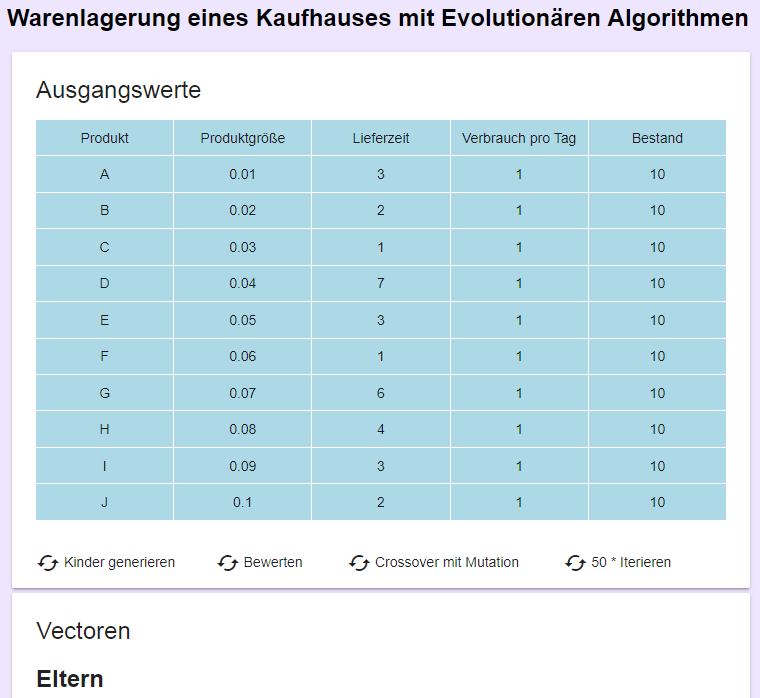
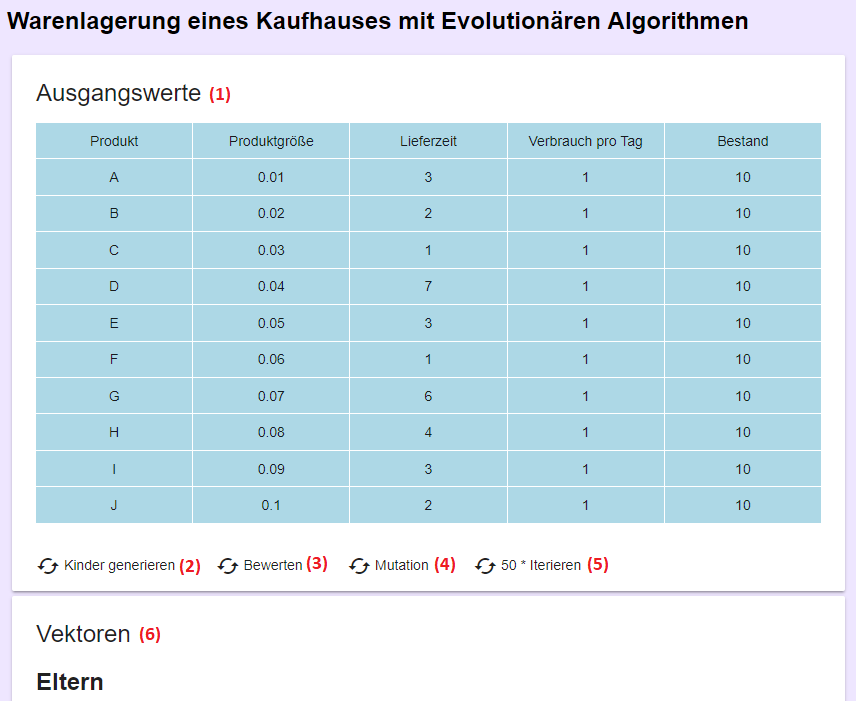
initial doku

diff --git a/src/app/ea/ea.component.ts b/src/app/ea/ea.component.ts
@@ -14,13 +14,14 @@ export class EaComponent implements OnInit {
   public parents: Vector[];
   public children: Vector[];
   public averageFitness: number;
+  public bestVector: Vector;
 
   public numParents = 10;
   public numChildren = 15;
   public maxStartSize = 20;
 
-  public standardDeviation = 0.2;
-  public simulationIterations = 10;
+  public standardDeviation = 0.1;
+  public simulationIterations = 80;
 
   constructor() {
     this.data = [
@@ -39,6 +40,7 @@ export class EaComponent implements OnInit {
     this.children = [];
     this.parents = this.generateStart(this.numParents);
     this.averageFitness = 0;
+    this.bestVector = null;
 
   }
 
@@ -53,11 +55,11 @@ export class EaComponent implements OnInit {
   // Interface
   evaluateVectors() {
     for (let parent of this.parents) {
-      parent.evaluate(20, this.data);
+      parent.evaluate(this.simulationIterations, this.data);
     }
 
     for (let child of this.children) {
-      child.evaluate(20, this.data);
+      child.evaluate(this.simulationIterations, this.data);
     }
 
     this.averageFitness = this.getAverageFitness(this.parents);
@@ -65,11 +67,12 @@ export class EaComponent implements OnInit {
 
   // Interface
   buildNextGen() {
-    this.parents = this.selectForNextGen(this.numParents, this.children, this.simulationIterations);
+    this.parents = this.selectForNextGen(this.numParents, this.children);
 
     for (let parent of this.parents) {
       parent.isNextGen = false;
     }
+    this.averageFitness = this.getAverageFitness(this.parents);
   }
 
   // Interface
@@ -131,17 +134,17 @@ export class EaComponent implements OnInit {
     vector.minimalStock.forEach((element, index) => {
       let localStandardDeviation = vector.minimalStock[index] * standardDeviation;
       mutateMinStock.push(Math.round(
-        vector.minimalStock[index] + (Math.random() * localStandardDeviation * 2 ) - localStandardDeviation));
+        vector.minimalStock[index] + ((Math.random() * 2 - 1) * localStandardDeviation)));
 
       localStandardDeviation = vector.buyAmount[index] * standardDeviation;
       mutateBuyAmount.push(Math.round(
-        vector.buyAmount[index] + (Math.random() * localStandardDeviation * 2 ) - localStandardDeviation));
+        vector.buyAmount[index] + ((Math.random() * 2 - 1) * localStandardDeviation)));
     });
 
     return new Vector(mutateMinStock, mutateBuyAmount);
   }
 
-  selectForNextGen(numberParents: number, children: Vector[], iterations: number): Vector[] {
+  selectForNextGen(numberParents: number, children: Vector[]): Vector[] {
     const nextGen = [];
     for (let i = 0; i < numberParents; i ++) {
       let bestChild = null;
@@ -152,13 +155,19 @@ export class EaComponent implements OnInit {
       }
       bestChild.isNextGen = true;
       nextGen.push(bestChild);
+
+      // Besten Vektor merken
+      if (this.bestVector === null || bestChild.fitness < this.bestVector.fitness) {
+        this.bestVector = Object.create(bestChild);
+        this.bestVector.isNextGen = false;
+      }
     }
     return nextGen;
   }
 
   getAverageFitness(vectors: Vector[]): number {
     let sum = 0;
-    for (let vector of vectors){
+    for (const vector of vectors){
       sum += vector.fitness;
     }
     return sum / vectors.length;

diff --git a/src/app/ea/util/vektoren.model.ts b/src/app/ea/util/vektoren.model.ts
@@ -33,7 +33,7 @@ export class Vector {
     }
 
     public evaluate(iterations: number, data: Product[]) {
-
+        
         let products = [];
 
         data.forEach((element) => {
@@ -71,18 +71,26 @@ export class Vector {
 
         }
 
-        console.log('Anzahl lehrer Produkte: ' + sumEmptyProducts);
-        console.log('Durschnittlicher Lagerbestand: ' + totalStock / iterations);
+        let totalMinimalStock = 0;
+        let totalBuyAmount = 0;
+        this.minimalStock.forEach((elem, index) => {
+            totalMinimalStock += elem;
+            totalBuyAmount += this.buyAmount[index];
+        })
+
+        // console.log('Anzahl lehrer Produkte: ' + sumEmptyProducts);
+        // console.log('Durschnittlicher Lagerbestand: ' + totalStock / iterations);
 
         // Durchschnittlicher Lagerbestand + 5 * sumEmptyProducts
-        this.fitness = totalStock / iterations + 2 * sumEmptyProducts;
+        this.fitness = totalStock / iterations + sumEmptyProducts + totalMinimalStock + totalBuyAmount;
+        this.orders = [];
 
     }
 
     private getTotalStock(products: Product[]): number {
         let count = 0;
         products.forEach((elem) => {
-            count += elem.stock;
+            count += elem.stock * elem.size;
         });
         return count;
     }

diff --git a/src/app/ea/ea.component.html b/src/app/ea/ea.component.html
@@ -32,7 +32,7 @@
       </button>
       <button md-button (click)="buildNextGen()">
         <md-icon>cached</md-icon>
-        Crossover mit Mutation
+        Mutation
       </button>
        <button md-button (click)="iterate(50)">
         <md-icon>cached</md-icon>
@@ -45,20 +45,21 @@
 <div>
   <md-card class="content-card">
     <md-card-title>
-      Vectoren
+      Vektoren
     </md-card-title>
     <h2>Eltern</h2>
     <md-card-content>
       <div *ngFor="let vector of parents">
         <span [class.isNextGen]="vector.isNextGen">
-          {{vector.toString()}} : {{vector.fitness}}
+          ({{vector.toString()}}) : {{vector.fitness}}
         </span>
       </div>
       <p> Durchschnitt Eltern-Fitness: {{averageFitness}}<p>
+      <p *ngIf="bestVector"> Bester Vektor: {{bestVector.toString()}} : {{bestVector.fitness}}<p>
       <h2>Kinder</h2>
       <div *ngFor="let vector of children">
         <span [class.isNextGen]="vector.isNextGen">
-          {{vector.toString()}} : {{vector.fitness}}
+          ({{vector.toString()}}) : {{vector.fitness}}
         </span>
       </div>
     </md-card-content>

diff --git a/latex/3-evolutionaere-alg/sl3-ea.tex b/latex/3-evolutionaere-alg/sl3-ea.tex
@@ -45,12 +45,12 @@ Vorsicht: Hier existiert zum aktuellen Zeitpunkt noch ein Bug des Routings, was 
 
 \begin{figure}[htbp]
 	\centering
-	\includegraphics[width=0.6\textwidth]{res/interface.png}
+	\includegraphics[width=0.7\textwidth]{res/interface.png}
 	\caption{Aktionsmöglichkeiten der Anwendung}
 	\label{img:interface}
 \end{figure}
 
-Um die Implementierung der SL-3 zu erreichen muss innerhalb der Kopfzeile ganz rechts das Menü geöffnet und die Option SL-3 ausgewählt werden. In der Anwendung (siehe Abbildung \ref{img:interface}) können nun die Ausgangsdaten über die Eingabefelder gepflegt werden. Dabei wird im linken Block (1) die Nachfrage und im rechten Block (2) der Lagerbestand pro Produkt eingetragen. Weiterhin können durch den Button "Befülle zufällig"(3) auch zufällige Werte für alle Felder erzeugt werden. "Berechnen" (4) führt bei gefüllten Ausgangswerten eine Fuzzyfizierung durch und wendet im Anschluss alle hinterlegten Regeln auf die Datenbasis an. Zuletzt wird aus den dadurch gewonnen Werten eine Empfehlung für jedes Produkt abgegeben(7). Mittels (5) können die Graphen der Fuzzy-Sets eingeblendet werden und mittels (6) werden alle Eingaben im Formular zurückgesetzt.
+Um die Implementierung der SL-3 zu erreichen muss innerhalb der Kopfzeile ganz rechts das Menü geöffnet und die Option SL-3 ausgewählt werden. In der Anwendung (siehe Abbildung \ref{img:interface}) können an erster Stelle (1) die Ausgangsdaten eingesehen werden. Diese sind für diese Implementierung statisch im Code hinterlegt und sind hier lediglich informativ. Bei den Aktionen steht zuerst die Generierung der Kinder (2) zur Verfügung. Dies geschieht nach einer (10/2,15)- Evolutionsstrategie, wodurch basierend auf den zufällig generierten Eltern 15 neue Vektoren entstehen. Dabei werden diese durch Mittelwertbildung erzeugt. Die Bewertung (3) fügt eine Bewertung zu jedem Vektor hinzu. Die Eltern erhalten ebenfalls eine Bewertung, auch wenn sie für nie nachfolgende Generation nicht weiter betrachtet werden. Bei der Mutation (4) wird eine statische Standardabweichung auf alle Bestandteile der Vektoren angewendet, um die notwendige Varianz zu erhalten. Die dadurch entstehenden Vektoren werden dann als neue Elterngeneration verwendet. Bei der 50-fachen Iteration (5) werden die vorherigen drei Schritte entsprechend häufig wiederholt. Im unteren Bereich (6) werden die Eltern und Kinder mit Bewertung dargestellt.
 
 \section{Aufbau der Applikation}
 \label{aufbau}
@@ -61,41 +61,35 @@ Die Implementierung erfolgt innerhalb nachfolgender Orderstruktur:
 \begin{lstlisting}[backgroundcolor=\color{lightgray}]
 src
 |- app
-   |- fuzzy
+   |- ea
 \end{lstlisting}
 Außenstehende Komponenten sind zur Navigation und Verwaltung notwendig.
 
-Innerhalb des Fuzzy-Ordners befinden sich folgende Dateien:
+Innerhalb des EA-Ordners befinden sich folgende Dateien:
 \begin{itemize}
-\item fuzzy.component.css (Styling der Komponente)
-\item fuzzy.component.html (Strukturierung der Komponente)
-\item fuzzy.component.ts (Logik der Komponente)
+\item ea.component.css (Styling der Komponente)
+\item ea.component.html (Strukturierung der Komponente)
+\item ea.component.ts (Logik der Komponente)
 \end{itemize}
-
-Weiterhin wurde zur Trennung von Anzeige und Logik die Visualisierung der Graphen in eine Sub-Komponente fuzzy-chart.component ausgelagert. Da diese lediglich eine Komponente zur Visualisierung ist und keine eigenen Logik besitzt, wird hierauf nicht weiter eingegangen.
 
 Im util-Ordner stehen noch weitere Klassen zur Verfügung, auf welche im Folgenden genauer eingegangen werden soll.
 \begin{itemize}
-	\item fuzzyController.ts (Umsetzung des Fuzzy Logic)
-	\item fuzzySet.ts (Umsetzung der Fuzzyfizierten Sets)
-	\item rules.ts (Hinterlegen der Regeln)
+	\item product.model.ts (Modell eines Produktes)
+	\item vektoren.model.ts (Abbilden und Bewerten eines Vektors)
 \end{itemize}
 
-Die \textit{FuzzySet}-Klasse repräsentiert für einen Wert x die Zugehörigkeitswerte zu beliebigen Teilmengen. Die Klasse wird hauptsächlich zum Speichern und Lesen dieser Informationen verwendet. Die Methoden \textit{addPair} und \textit{getValueByKey} stehen hierfür zur Verfügung. Somit können können Teilmengen mit deren Zugehörigkeitswerten leicht  hinzugefügt und abgefragt werden.
-\\
+Die \textit{Produkt}-Klasse enthält alle für die Produkte notwendigen Informationen. Dies beinhaltet den Namen, die anteilige Lagergröße, die Lieferdauer, der Verbrauch und der Lagerbestand. Die Produkte an sich benötigen keine weitere Logik.
 
-Die \textit{FuzzyController}-Klasse erhält die Fuzzy-Logic als Parameter innerhalb des Konstruktoren. In dieser sind die Bereiche der einzelnen Teilmengen mit ihren jeweiligen Zugehörigkeitsfunktionen enthalten. Die Klasse enthält die \textit{getSet}-Methode, welche zu einem Wert x die Zugehörigkeitswerte zu jeder Teilmenge in Form eines \textit{FuzzySet}-Objekts zurückgibt. Dies basiert auf der im Objekt hinterlegten Logik. Weiterhin steht die \textit{logicalAnd}-Methode zur Verfügung, welche für eine Reihe von Werten die zugehörigen Sets ermittelt und diese mit einem logischen UND miteinander verknüpft. Diese Funktion wurde zu Beginn für die Ermittlung des Gesamtlagerbestandes genutzt. Aufgrund der Ergebnisse, wurde sich dann allerdings für eine andere Methode entschieden (siehe Kapitel \ref{ergebnisse})
-\\
+Die \textit{Vektoren}-Klasse besitzt zwei Arrays, welche für die reelle Codierung relevant sind: \textit{minimalStock} und \textit{buyAmount}. Innerhalb von minimalStock wird für jedes Produkt festgehalten, ab wann nachgekauft werden sollte, buyAmount enthält entsprechend die nachzukaufende Menge. Diese werden auch innerhalb der \textit{toString}-Methode zur Visualisierung verwendet. Hier werden sie allerdings jeweils Pro Produkt dargestellt, also [minimalStock(Prod A), buyAmount(Prod A)], ... (siehe Abbildung \ref{img:vektoren}). Ergänzt wird diese Darstellung durch die Bewertung der einzelnen Vektoren und eine durchschnittliche Fitness über die gesamte Generation.
 
-In der \textit{Ruleset}-Klasse sind alle Regeln hinterlegt, welche auf die fuzzyfizierten Ausgangswerte angewendet werden. Jede Regel gibt dabei einen Zugehörigkeitswert zu einer der drei Ergebnismengen zur Kaufentscheidung zurück, welche gesammelt für jedes Produkt zurückgegeben werden. Die Regeln sind so aufgebaut, dass sie die für sich relevanten Zugehörigkeiten ermitteln, mit einem logischen UND verknüpfen und als Ergebnisdimension zurückgeben.
+\begin{figure}[htbp]
+	\centering
+	\includegraphics[width=0.7\textwidth]{res/vektoren.png}
+	\caption{Darstellung der Elternvektoren}
+	\label{img:vektoren}
+\end{figure}
 
-Die beschriebenen Klassen werden hauptsächlich durch die \textit{FuzzyComponent} verwendet. Diese ist verantwortlich für die Initialisierung und hauptsächlich zuständig für die Interaktion zwischen Frontend und Logik. Im Konstruktor werden die Eingabefelder Nachfrage und Lagerbestand für vier Produkte (A-D) erzeugt. Für de Implementierung wurde dabei eine Maximale Eingabe von 50 gewählt. Zusätzlich werden die Teilmengen der Fuzzy-Sets und deren Zugehörigkeitsfunktionen definiert. Die Zugehörigkeitsfunktionen werden dabei durch geometrische Formen wie Dreiecke oder Trapeze definiert (siehe Abbildung \ref{img:fuzzy}). Diese Funktionen sind fest im Code definiert und können nicht im Frontend angepasst werden.
-\\
 
-Die Funktionen \textit{fillrandom} und \textit{reset} werden bei den entsprechenden Buttons im Frontend ausgeführt und befüllen entweder alle Felder des Formulars mit einem zufälligen Wert oder setzten die Eingaben und das Ergebnis zurück. \textit{getTotalStockSet} ermittelt das Set für den gesamten Lagerbestand über alle Produkte, indem zuerst zu jedem Produkt einzeln die Zugehörigkeit zu den Fuzzy-Teilmengen ermittelt wird. Im Anschluss
-wird für jede Teilmenge der Mittelwert über die einzelnen Produkte ermittelt.
-
-Die \textit{calculate} Funktion übermittelt die Ausgangswerte des Frontends an das beschriebene Ruleset. Die Ergebnisse werden im Anschluss gemittelt und pro Produkt wird eine Empfehlung ausgesprochen, zu der Kaufentscheidung mit dem höchsten Zugehörigkeitswert. So steht pro Produkt eine Entscheidung der Form "Für Produkt A ist die Kaufmenge zu 74\%: Niedrig" vor.
 
 \section{Ergebnisse}
 \label{ergebnisse}
